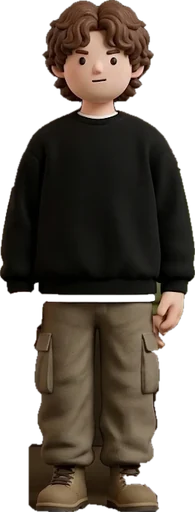
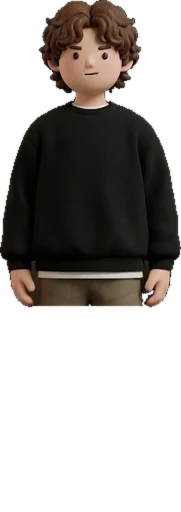
3D figurines with swinging legs and back views; new lead/approver/me/senior/shiun art; shiny silver car
Claude-Session: https://claude.ai/code/session_01JfU8TWwwa5422dqTjREWKh

diff --git a/index.html b/index.html
@@ -125,7 +125,7 @@ const CAST={
  me:     {name:'나',fig:'me'},
  s1:     {name:'주임님',fig:'approver'},
  s2:     {name:'사수님',fig:'senior'},
- lead:   {name:'팀장님',top:0x5b6d86,pants:0x2b2e38,hair:0x2b2b2b,hairStyle:'part',scale:.88},
+ lead:   {name:'팀장님',fig:'lead'},
  boss:   {name:'지사장님',top:0x2b2e38,pants:0x2b2e38,hair:0x9a9a9a,hairStyle:'part',tie:0x7a2a3b,glasses:true,scale:.88},
  shiun:  {name:'시운 주임님',fig:'shiun'},
  heeyeon:{name:'희연 주임님',fig:'heeyeon'},
@@ -202,17 +202,34 @@ function carProfile(){const sh=new THREE.Shape();sh.moveTo(2.25,.38);sh.quadrati
 function glassProfile(){const sh=new THREE.Shape();sh.moveTo(.7,1.14);sh.quadraticCurveTo(.24,1.56,-.42,1.54);sh.quadraticCurveTo(-1.25,1.46,-1.62,1.2);sh.lineTo(.7,1.14);return sh;}
 const bodyGeo=new THREE.ExtrudeGeometry(carProfile(),{depth:1.7,bevelEnabled:true,bevelThickness:.22,bevelSize:.16,bevelSegments:4,curveSegments:16});bodyGeo.rotateY(-Math.PI/2);bodyGeo.translate(.85,0,0);
 const glassGeo=new THREE.ExtrudeGeometry(glassProfile(),{depth:1.82,bevelEnabled:true,bevelThickness:.06,bevelSize:.05,bevelSegments:2,curveSegments:12});glassGeo.rotateY(-Math.PI/2);glassGeo.translate(.91,.02,0);
-function car(color,x,z,ry,metal=.35){const g=new THREE.Group();g.position.set(x,GY,z);g.rotation.y=ry;scene.add(g);
-  mesh(bodyGeo,M(color,{roughness:.28,metalness:metal}),0,0,0,g,true,false);
-  mesh(glassGeo,M(0x1c2230,{roughness:.08,metalness:.5}),0,0,0,g,false,false);
+// reflection map so metal paint has something to mirror
+const envMap=(()=>{const es=new THREE.Scene();const sg=new THREE.SphereGeometry(50,32,16);const cols=[];const P_=sg.attributes.position;
+  for(let i=0;i<P_.count;i++){const y=P_.getY(i)/50;const c=new THREE.Color().setHSL(.58,.35,y>0?.55+y*.4:.32+y*.12);cols.push(c.r,c.g,c.b);}
+  sg.setAttribute('color',new THREE.Float32BufferAttribute(cols,3));es.add(new THREE.Mesh(sg,new THREE.MeshBasicMaterial({vertexColors:true,side:THREE.BackSide})));
+  [[0,40,0,60,1,60],[30,10,0,2,20,40],[-30,12,10,2,14,30],[0,8,-30,40,6,2]].forEach(([x,y,z,w,h,d])=>{const m=new THREE.Mesh(new THREE.BoxGeometry(w,h,d),new THREE.MeshBasicMaterial({color:0xffffff}));m.position.set(x,y,z);es.add(m);});
+  const pm=new THREE.PMREMGenerator(renderer);const t=pm.fromScene(es,.02).texture;pm.dispose();return t;})();
+const crestTex=canvasTex((g,w,h)=>{g.clearRect(0,0,w,h);const sh=()=>{g.beginPath();g.moveTo(w*.08,h*.06);g.lineTo(w*.92,h*.06);g.lineTo(w*.92,h*.55);g.quadraticCurveTo(w*.9,h*.86,w*.5,h*.97);g.quadraticCurveTo(w*.1,h*.86,w*.08,h*.55);g.closePath();};
+  sh();g.fillStyle='#d4a63a';g.fill();g.lineWidth=6;g.strokeStyle='#8a6a1f';g.stroke();
+  g.fillStyle='#1b1b1b';g.font='bold '+Math.round(h*.1)+'px sans-serif';g.textAlign='center';g.fillText('PORSCHE',w/2,h*.17);
+  g.save();sh();g.clip();for(let i=0;i<6;i++){g.fillStyle=i%2?'#c8302a':'#1b1b1b';g.fillRect(w*.12,h*.24+i*h*.05,w*.3,h*.05);g.fillRect(w*.58,h*.58+i*h*.05,w*.3,h*.05);}
+  for(let i=0;i<3;i++){g.fillStyle='#1b1b1b';g.beginPath();g.ellipse(w*.73,h*.3+i*h*.08,w*.12,h*.025,-.3,0,7);g.fill();g.beginPath();g.ellipse(w*.27,h*.66+i*h*.08,w*.12,h*.025,.3,0,7);g.fill();}g.restore();
+  g.fillStyle='#e8c24a';g.strokeStyle='#8a6a1f';g.lineWidth=3;g.beginPath();g.moveTo(w*.38,h*.38);g.lineTo(w*.62,h*.38);g.lineTo(w*.62,h*.58);g.quadraticCurveTo(w*.6,h*.68,w*.5,h*.72);g.quadraticCurveTo(w*.4,h*.68,w*.38,h*.58);g.closePath();g.fill();g.stroke();
+  g.fillStyle='#1b1b1b';g.beginPath();g.moveTo(w*.45,h*.66);g.quadraticCurveTo(w*.44,h*.5,w*.5,h*.46);g.quadraticCurveTo(w*.56,h*.42,w*.57,h*.47);g.lineTo(w*.53,h*.5);g.quadraticCurveTo(w*.55,h*.6,w*.52,h*.66);g.closePath();g.fill();},128,160);
+const scriptTex=canvasTex((g,w,h)=>{g.clearRect(0,0,w,h);g.fillStyle='#e9ecef';g.font='bold '+(h*.7)+'px sans-serif';g.textAlign='center';g.textBaseline='middle';g.fillText('P O R S C H E',w/2,h/2+2);},512,64);
+function car(color,x,z,ry,metal=.35,hero){const g=new THREE.Group();g.position.set(x,GY,z);g.rotation.y=ry;scene.add(g);
+  const paint=hero?new THREE.MeshStandardMaterial({color:CL(0xdfe3e8),metalness:1,roughness:.16,envMap,envMapIntensity:1.35}):new THREE.MeshStandardMaterial({color:CL(color),roughness:.3,metalness:metal,envMap,envMapIntensity:.6});
+  mesh(bodyGeo,paint,0,0,0,g,true,false);
+  mesh(glassGeo,new THREE.MeshStandardMaterial({color:CL(0x1c2230),roughness:.05,metalness:.6,envMap,envMapIntensity:1}),0,0,0,g,false,false);
+  const rim=new THREE.MeshStandardMaterial({color:CL(0xe6e9ee),metalness:1,roughness:.2,envMap});
   [[-.92,1.38],[.92,1.38],[-.92,-1.38],[.92,-1.38]].forEach(([a,b])=>{const w=mesh(new THREE.CylinderGeometry(.42,.42,.34,20),M(0x18191d,{roughness:.9}),a,.42,b,g,false,false);w.rotation.z=Math.PI/2;
-    const r=mesh(new THREE.CylinderGeometry(.27,.27,.36,12),M(0xd9dce2,{metalness:.8,roughness:.25}),a,.42,b,g,false,false);r.rotation.z=Math.PI/2;});
+    const r=mesh(new THREE.CylinderGeometry(.27,.27,.36,12),rim,a,.42,b,g,false,false);r.rotation.z=Math.PI/2;});
   [-.62,.62].forEach(a=>{const l=mesh(new THREE.SphereGeometry(.2,14,10),M(0xfff6d6,{emissive:0xfff0c0,emissiveIntensity:.7,roughness:.1}),a,.86,2.12,g,false,false);l.scale.set(1,1,.6);});
   mesh(RB(1.7,.1,.1,.04),M(0xd8382f,{emissive:0xff2a2a,emissiveIntensity:.6}),0,.86,-2.42,g,false,false);
-  mesh(RB(1,.06,.3,.03),M(0x2b2e36),0,1.0,-2.15,g,false,false);
+  if(hero){const c=new THREE.Mesh(new THREE.PlaneGeometry(.32,.4),new THREE.MeshStandardMaterial({map:crestTex,transparent:true,alphaTest:.2,metalness:.4,roughness:.3}));c.position.set(0,1.12,1.92);c.rotation.x=-Math.PI/2+.3;g.add(c);
+    const sc=new THREE.Mesh(new THREE.PlaneGeometry(1.3,.16),new THREE.MeshBasicMaterial({map:scriptTex,transparent:true}));sc.position.set(0,1.02,-2.5);sc.rotation.y=Math.PI;g.add(sc);}
   return g;}
 car(0x2b2e36,-21.8,-10,0);car(0xf2f2f4,-8.6,-10,0,.1);car(0xd8382f,4.6,10,Math.PI);car(0x3f6b8a,17.8,-10,0);car(0xe9e4da,22.2,10,Math.PI,.1);
-const heroCar=car(0xc5c9cf,40,6,-Math.PI/2,.55);
+const heroCar=car(0xc5c9cf,40,6,-Math.PI/2,.55,true);
 // glass elevator shaft on the front-left corner, doors face into the building
 const LX=-24,LZ=FZ+2;
 {const post=M(0x5f6672,{metalness:.5,roughness:.35});[[-1.7,-1.7],[1.7,-1.7],[-1.7,1.7],[1.7,1.7]].forEach(([a,b])=>mesh(new THREE.BoxGeometry(.25,7.5-GY+.5,.25),post,LX+a,(GY+7.5)/2,LZ+b));
@@ -270,7 +287,7 @@ function plant(x,z,s=1){const g=new THREE.Group();g.position.set(x,0,z);g.scale.
 const ROW_Z=4;
 desk(-4,ROW_Z,0,{mug:0x1e1f24,figure:0xd8382f,noChair:true});desk(0,ROW_Z,0,{mug:0x2f6fd6,plant:true,noChair:true});desk(4,ROW_Z,0,{mug:0x6f6b3c,figure:0x3f9a6e,noChair:true});
 sign('내 자리','#2f6fd6',0,3.1,ROW_Z-.75,1.4);
-desk(-12,ROW_Z,0,{mug:0xf2b544,plant:true,chair:0x3b4458});sign('팀장','#3b4458',-12,3.1,ROW_Z-.75,1.4);
+desk(-12,ROW_Z,0,{mug:0xf2b544,plant:true,noChair:true});sign('팀장','#3b4458',-12,3.1,ROW_Z-.75,1.4);
 [-12,-4,4].forEach((x,i)=>desk(x,-3,0,{mug:[0xd8382f,0x3f9a6e,0xf2b544][i],plant:i===1}));
 // the three friends' row near the front
 const GIRLS_Z=14;
@@ -361,25 +378,42 @@ function person(o){
   const sd=mesh(new THREE.CircleGeometry(.75*W,20),basic(0x1a2236,{transparent:true,opacity:.22,depthWrite:false}),0,.03,0,g,false,false);sd.rotation.x=-Math.PI/2;
   return g;
 }
-/* figures from the user's illustration: cut out, then puffed into a soft relief with a depth map */
-const FIGS={senior:[171,569],approver:[195,677],me:[154,599],shiun:[120,574],heeyeon:[176,595],sunhye:[156,586]};
-const UNIT=3.05/599;
-function figure(key){const [w,px]=FIGS[key];const Hh=px*UNIT,Ww=Hh*w/512,DEPTH=Ww*.2;
-  const tex=new THREE.TextureLoader().load('img/'+key+'.webp');tex.encoding=THREE.sRGBEncoding;tex.anisotropy=8;
-  const geo=new THREE.PlaneGeometry(Ww,Hh,Math.max(8,Math.round(w/4)),128);geo.translate(0,Hh/2,0);const back=geo.clone();
-  const mat=new THREE.MeshStandardMaterial({map:tex,alphaTest:.5,side:THREE.DoubleSide,roughness:.75,emissive:new THREE.Color(0xffffff),emissiveMap:tex,emissiveIntensity:.15});
-  const bmat=new THREE.MeshStandardMaterial({map:tex,alphaTest:.5,side:THREE.DoubleSide,roughness:.9,color:new THREE.Color(0xb9a99c)});
-  const dmat=new THREE.MeshDepthMaterial({depthPacking:THREE.RGBADepthPacking,map:tex,alphaTest:.5});
-  const g=new THREE.Group(),card=new THREE.Group();g.add(card);
-  [[geo,mat],[back,bmat]].forEach(([gg,mm])=>{const m=new THREE.Mesh(gg,mm);m.castShadow=true;m.customDepthMaterial=dmat;card.add(m);});
+/* figures from the user's illustrations, built as chunky 3D figurines:
+   the cut-out is inflated with a depth map (front + a separate back view), and the legs are separate pieces that swing */
+const FIGS={
+ lead:{w:205,hip:.625,cx:.4976,l0:.2,l1:.8049,h:2.85},
+ approver:{w:181,hip:.5938,cx:.4972,l0:.1823,l1:.8122,h:3.35},
+ me:{w:167,hip:.6406,cx:.497,l0:.1796,l1:.8204,h:3.05},
+ senior:{w:190,hip:.6445,cx:.4947,l0:.1684,l1:.8526,h:2.85},
+ shiun:{w:149,hip:.5605,cx:.4966,l0:.1678,l1:.8591,h:2.95},
+ heeyeon:{w:176,hip:.5996,cx:.4943,l0:.1932,l1:.8125,h:2.98},
+ sunhye:{w:156,hip:.6094,cx:.4487,l0:.109,l1:.7949,h:2.93}};
+const texLoader=new THREE.TextureLoader();
+const ltex=src=>{const t=texLoader.load(src);t.encoding=THREE.sRGBEncoding;t.anisotropy=8;return t;};
+function figure(key){
+  const f=FIGS[key],Hh=f.h,Ww=Hh*f.w/512,DEPTH=Ww*.3,vh=1-f.hip;
+  const tex={front:ltex('img/'+key+'.webp'),back:ltex('img/'+key+'-back.webp'),legs:ltex('img/'+key+'-legs.webp'),legsBack:ltex('img/'+key+'-legs-back.webp')};
+  const mat=(t,front)=>new THREE.MeshStandardMaterial({map:t,alphaTest:.5,side:THREE.DoubleSide,roughness:front?.7:.85,emissive:new THREE.Color(0xffffff),emissiveMap:t,emissiveIntensity:front?.12:.05});
+  const dmat=t=>new THREE.MeshDepthMaterial({depthPacking:THREE.RGBADepthPacking,map:t,alphaTest:.5});
+  const g=new THREE.Group(),card=new THREE.Group();g.add(card);const geos=[];
+  function part(u0,u1,v0,v1,tf,tb,parent,px,py){
+    const geo=new THREE.PlaneGeometry(Ww*(u1-u0),Hh*(v1-v0),Math.max(6,Math.round(46*(u1-u0))),Math.max(10,Math.round(150*(v1-v0))));
+    const uv=geo.attributes.uv;for(let i=0;i<uv.count;i++)uv.setXY(i,u0+uv.getX(i)*(u1-u0),v0+uv.getY(i)*(v1-v0));
+    geo.translate(((u0+u1)/2-.5)*Ww-px,(v0+v1)/2*Hh-py,0);const bg=geo.clone();
+    [[geo,tf,1],[bg,tb,-1]].forEach(([gg,t,k])=>{const m=new THREE.Mesh(gg,mat(t,k>0));m.castShadow=true;m.customDepthMaterial=dmat(t);parent.add(m);geos.push([gg,k]);});
+  }
+  part(0,1,0,1,tex.front,tex.back,card,0,0);
+  const legs=[[f.l0,f.cx],[f.cx,f.l1]].map(([u0,u1])=>{const piv=new THREE.Group();const px=((u0+u1)/2-.5)*Ww,py=vh*Hh;piv.position.set(px,py,0);card.add(piv);
+    part(u0,u1,0,Math.min(1,vh+.03),tex.legs,tex.legsBack,piv,px,py);return piv;});
   const img=new Image();img.onload=()=>{const c=document.createElement('canvas');c.width=img.width;c.height=img.height;const x=c.getContext('2d');x.drawImage(img,0,0);const d=x.getImageData(0,0,c.width,c.height).data;
-    [[geo,1],[back,-.75]].forEach(([gg,k])=>{const p=gg.attributes.position,uv=gg.attributes.uv;for(let i=0;i<p.count;i++){const px2=Math.min(c.width-1,Math.round(uv.getX(i)*(c.width-1))),py=Math.min(c.height-1,Math.round((1-uv.getY(i))*(c.height-1)));p.setZ(i,k*DEPTH*d[(py*c.width+px2)*4]/255);}p.needsUpdate=true;gg.computeVertexNormals();});};
+    geos.forEach(([gg,k])=>{const p=gg.attributes.position,uv=gg.attributes.uv;for(let i=0;i<p.count;i++){const qx=Math.min(c.width-1,Math.round(uv.getX(i)*(c.width-1))),qy=Math.min(c.height-1,Math.round((1-uv.getY(i))*(c.height-1)));
+      p.setZ(i,k*DEPTH*d[(qy*c.width+qx)*4]/255);}p.needsUpdate=true;gg.computeVertexNormals();});};
   img.src='img/'+key+'-depth.png';
-  const sd=mesh(new THREE.CircleGeometry(Ww*.55,20),basic(0x1a2236,{transparent:true,opacity:.25,depthWrite:false}),0,.03,0,g,false,false);sd.rotation.x=-Math.PI/2;sd.scale.y=.6;
-  g.userData={fig:true,card,top:Hh,scale:.85};scene.add(g);return g;}
+  const sd=mesh(new THREE.CircleGeometry(Ww*.5,20),basic(0x1a2236,{transparent:true,opacity:.25,depthWrite:false}),0,.03,0,g,false,false);sd.rotation.x=-Math.PI/2;sd.scale.y=.7;
+  g.userData={fig:true,card,legs,top:Hh,scale:.85,breath:Math.random()*6};scene.add(g);return g;}
 const hero=figure('me');hero.visible=false;
 const PANTRY={shiun:[15.4,17.4],heeyeon:[18,18.4],sunhye:[20.6,17.4]};
-const SEATS={s1:[-4,ROW_Z+1.7,Math.PI],s2:[4,ROW_Z+1.7,Math.PI],lead:[-12,ROW_Z+1.4,Math.PI],boss:[0,-19.4,0],shiun:[...PANTRY.shiun,0],heeyeon:[...PANTRY.heeyeon,0],sunhye:[...PANTRY.sunhye,0]};
+const SEATS={s1:[-4,ROW_Z+1.7,0],s2:[4,ROW_Z+1.7,0],lead:[-12,ROW_Z+1.7,0],boss:[0,-19.4,0],shiun:[...PANTRY.shiun,0],heeyeon:[...PANTRY.heeyeon,0],sunhye:[...PANTRY.sunhye,0]};
 const P={me:hero};const seatY=id=>CAST[id].fig?0:.35*CAST[id].scale/.85;
 Object.entries(SEATS).forEach(([id,[x,z,r]])=>{let g;const c=CAST[id];
   if(c.fig){g=figure(c.fig);g.position.set(x,0,z);}else{g=person(c);g.position.set(x,seatY(id),z);g.rotation.y=r;g.userData.seated=true;g.userData.legs.forEach(l=>l.rotation.x=-1.4);}
@@ -486,7 +520,7 @@ const OV_T=V3(0,-3,0),OV_O=V3(60,80,120);
 let fly=null,camKey=null;camera.position.copy(OV_T).add(OV_O);controls.target.copy(OV_T);
 function camFly(t,o){fly={t:0,fT:controls.target.clone(),fO:camera.position.clone().sub(controls.target),tT:t,tO:o};}
 const focus=V3(20,GY,6);
-const CAMS={garage:{o:V3(.42,.16,.9),d:40},lift:{o:V3(.35,.12,.93),d:22},row:{t:V3(0,1.6,5.6),o:V3(.3,.5,.85),d:17},lead:{o:V3(.4,.55,.85),d:18},boss:{t:V3(0,1.5,-6),o:V3(.45,.75,.75),d:48},girls:{t:V3(17.6,1.5,17.4),o:V3(.3,.5,.9),d:24}};
+const CAMS={garage:{o:V3(.42,.16,.9),d:40},lift:{o:V3(.35,.12,.93),d:22},row:{t:V3(0,1.6,5.6),o:V3(.3,.5,.85),d:17},lead:{o:V3(.4,.5,.85),d:18},boss:{t:V3(0,1.5,-6),o:V3(.45,.75,.75),d:48},girls:{t:V3(17.6,1.5,17.4),o:V3(.3,.5,.9),d:24}};
 
 /* effects */
 const cf=$('#confetti'),cx=cf.getContext('2d');let confettiOn=false,bits=[];
@@ -502,11 +536,11 @@ let floatT=0;
 
 /* animation */
 const clock=new THREE.Clock();let phase=0,simT=0;const tmp=V3(0,0,0);let heroYaw=0;
-function figAnim(g,walking,talking){const u=g.userData;const dx=camera.position.x-g.position.x,dz=camera.position.z-g.position.z,dy=camera.position.y-g.position.y;
-  const cy=Math.atan2(dx,dz);let df=(u.lookYaw!=null?u.lookYaw:cy)-cy;while(df>Math.PI)df-=Math.PI*2;while(df<-Math.PI)df+=Math.PI*2;
-  g.rotation.y=cy+Math.max(-.55,Math.min(.55,df*.4));u.card.rotation.x=-Math.min(.4,Math.atan2(dy,Math.hypot(dx,dz))*.3);
-  u.card.position.y=walking?Math.abs(Math.sin(phase))*.12:talking?Math.abs(Math.sin(phase*1.2))*.07:0;
-  u.card.rotation.z=walking?Math.sin(phase)*.045:talking?Math.sin(phase*.9)*.035:Math.sin(simT*.8+g.position.x)*.012;}
+function figAnim(g,walking,talking){const u=g.userData;g.rotation.y=u.lookYaw!=null?u.lookYaw:0;
+  const sw=walking?Math.sin(phase)*.5:0;u.legs[0].rotation.x=sw;u.legs[1].rotation.x=-sw;
+  u.card.position.y=walking?Math.abs(Math.cos(phase))*.08:talking?Math.abs(Math.sin(phase*1.2))*.05:0;
+  u.card.rotation.x=talking?Math.sin(phase*1.4)*.025:0;u.card.rotation.z=0;
+  u.card.scale.y=1+Math.sin(simT*2.2+u.breath)*.006;}
 function pose(g,walking,talking){const u=g.userData;if(u.fig){figAnim(g,walking,talking);return;}const sw=walking?Math.sin(phase)*.55:0;
   if(!u.seated){u.legs[0].rotation.x=sw;u.legs[1].rotation.x=-sw;}else{u.legs[0].rotation.x=u.legs[1].rotation.x=-1.4;}
   u.arms[0].rotation.x=walking?-sw*.8:(talking?Math.sin(phase*1.7)*.3-.3:0);
